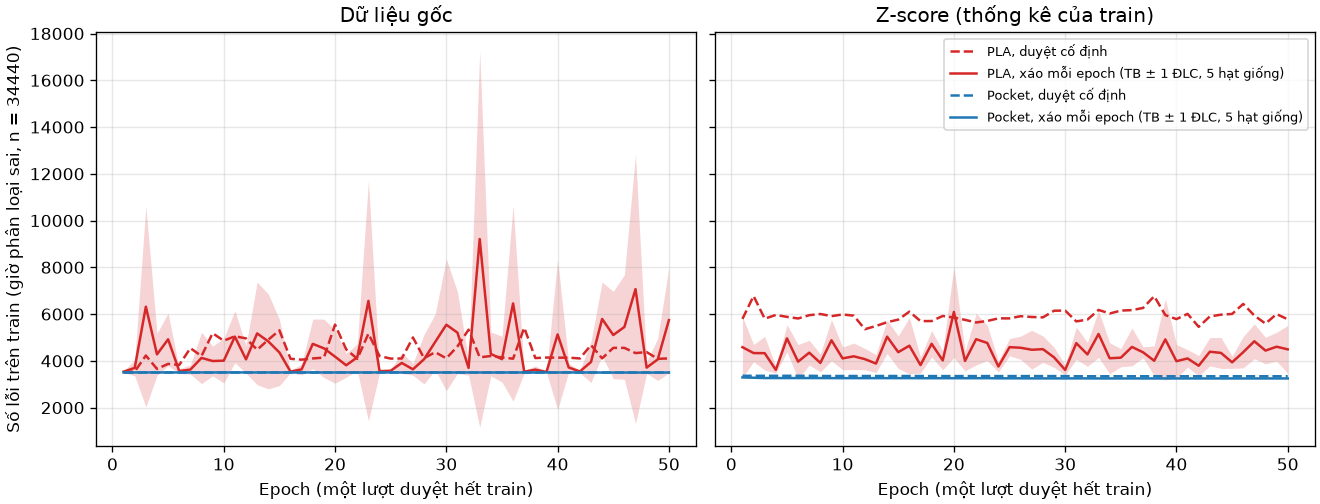
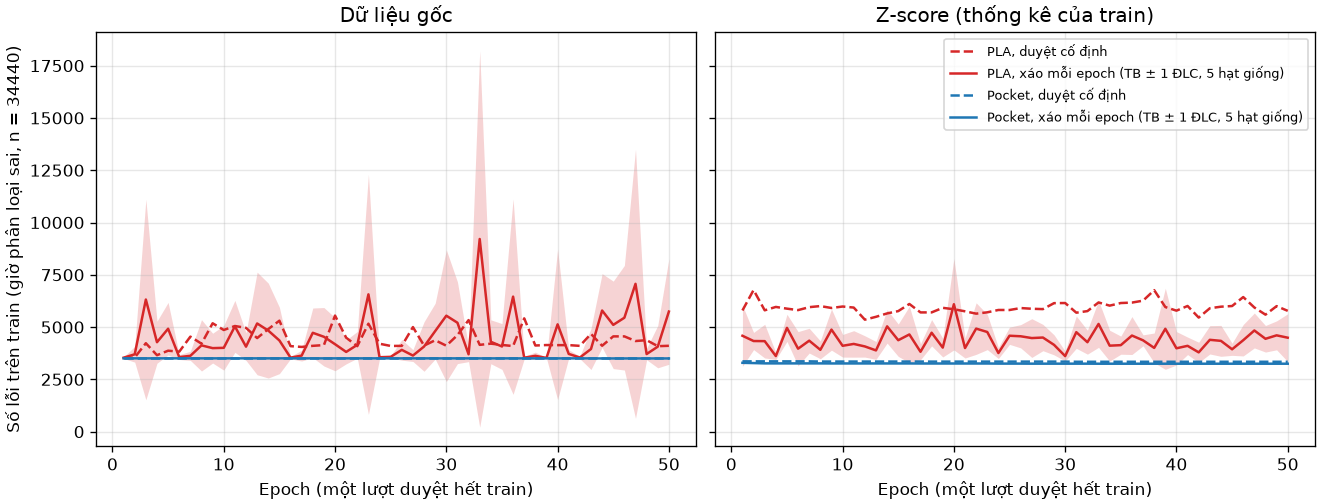
T011 fix(b4): do lech chuan qua cac lan chay chia n - 1

diff --git a/src/perceptron.py b/src/perceptron.py
@@ -148,6 +148,18 @@ def _pad_last(curve, length):
     return np.r_[curve, np.full(length - len(curve), curve[-1])]
 
 
+def _run_std(a):
+    """ĐLC qua các lần chạy (trục 0), chia n − 1 (Phi chốt 24/11/2026).
+
+    Chỉ một lần chạy (duyệt cố định) thì n − 1 = 0 nên công thức không xác định; cấu hình đó tất định
+    (hạt giống nào cũng ra cùng kết quả) nên trả 0 thay vì NaN.
+    """
+    a = np.asarray(a, dtype=np.float64)
+    if a.shape[0] < 2:
+        return np.zeros(a.shape[1:])
+    return a.std(axis=0, ddof=1)
+
+
 def epoch_error_runs(X, y, seeds, max_epochs):
     """Chạy PLA và Pocket cho 4 cấu hình: {dữ liệu gốc, z-score} x {duyệt cố định, xáo mỗi epoch}.
 
@@ -176,7 +188,7 @@ def epoch_error_runs(X, y, seeds, max_epochs):
 
 
 def epoch_error_table(runs, n):
-    """Bảng 4.1: mỗi cấu hình một dòng, số lỗi cuối (epoch cuối) của PLA và Pocket, trung bình ± độ lệch chuẩn (chia số lần chạy)."""
+    """Bảng 4.1: mỗi cấu hình một dòng, số lỗi cuối (epoch cuối) của PLA và Pocket, trung bình ± độ lệch chuẩn (chia n − 1, xem `_run_std`)."""
     import pandas as pd
 
     rows = []
@@ -188,9 +200,9 @@ def epoch_error_table(runs, n):
             "so_lan_chay": len(pla_last),
             "n_mau": n,
             "pla_loi_cuoi_tb": pla_last.mean(),
-            "pla_loi_cuoi_dlc": pla_last.std(),
+            "pla_loi_cuoi_dlc": float(_run_std(pla_last)),
             "pocket_loi_cuoi_tb": pocket_last.mean(),
-            "pocket_loi_cuoi_dlc": pocket_last.std(),
+            "pocket_loi_cuoi_dlc": float(_run_std(pocket_last)),
             "pocket_ti_le_loi_tb_pct": 100.0 * pocket_last.mean() / n,
             "pla_so_lan_ve_0_loi": int(np.sum(pla_last == 0)),
             "pla_so_epoch_da_chay_tb": r["pla_epochs"].mean(),
@@ -210,7 +222,7 @@ def plot_epoch_errors(runs, n, path):
             for order in ORDERS:
                 curves = runs[(variant, order)][algo]
                 epochs = np.arange(1, curves.shape[1] + 1)
-                mean, sd = curves.mean(axis=0), curves.std(axis=0)
+                mean, sd = curves.mean(axis=0), _run_std(curves)
                 label = f"{algo.upper() if algo == 'pla' else 'Pocket'}, {_LABELS[order]}"
                 if order == "xao":
                     label += f" (TB ± 1 ĐLC, {curves.shape[0]} hạt giống)"

diff --git a/tests/test_perceptron_viet.py b/tests/test_perceptron_viet.py
@@ -86,9 +86,15 @@ def test_epoch_error_table_matches_runs():
     row = table[(table["du_lieu"] == "zscore") & (table["thu_tu"] == "xao")].iloc[0]
     last = runs[("zscore", "xao")]["pocket"][:, -1]
     assert row["so_lan_chay"] == 3
-    assert np.isclose(row["pocket_loi_cuoi_tb"], last.mean()) and np.isclose(row["pocket_loi_cuoi_dlc"], last.std())
+    assert np.isclose(row["pocket_loi_cuoi_tb"], last.mean()) and np.isclose(row["pocket_loi_cuoi_dlc"], last.std(ddof=1))
     fixed = table[table["thu_tu"] == "co_dinh"]
     assert (fixed["so_lan_chay"] == 1).all() and (fixed["pla_loi_cuoi_dlc"] == 0).all()
+
+
+def test_run_std_divides_by_n_minus_1_and_single_run_is_zero():
+    a = np.array([[1.0, 4.0], [3.0, 8.0], [5.0, 6.0]])
+    assert np.allclose(pc._run_std(a), [2.0, 2.0])  # chia n - 1 = 2, không phải n = 3
+    assert np.all(pc._run_std(a[:1]) == 0.0)  # một lần chạy (duyệt cố định, tất định): 0, không NaN
 
 
 def test_plot_epoch_errors_writes_png(tmp_path):

diff --git a/tasks/T011-viet-hinh-loi-theo-epoch-cua-pla-va-pocket.md b/tasks/T011-viet-hinh-loi-theo-epoch-cua-pla-va-pocket.md
@@ -40,11 +40,12 @@ Chạy `pla` và `pocket` (T006, đã có) trên bài toán phụ "giờ cao đi
 - ☑ Tôi tự giải thích được từng dòng mã và từng con số trong task này (người làm tự tick).
 
 ## Kết quả (người làm điền)
-**Đã làm (24/11/2026).** Trong `src/perceptron.py`: `run` (phần lỗi theo epoch) và các hàm phụ `epoch_error_runs`, `epoch_error_table`, `plot_epoch_errors`, `_zscore_fit`, `_pad_last`. Không đổi `pla`, `pocket`, `count_errors` của T006.
+**Đã làm (24/11/2026).** Trong `src/perceptron.py`: `run` (phần lỗi theo epoch) và các hàm phụ `epoch_error_runs`, `epoch_error_table`, `plot_epoch_errors`, `_zscore_fit`, `_pad_last`, `_run_std`. Không đổi `pla`, `pocket`, `count_errors` của T006.
 - Dữ liệu: train, bỏ `WARMUP_WEEKS` tuần đầu (cùng điều kiện `week_idx >= WARMUP_WEEKS` như `drop_warmup`) → n = 34.440 giờ, 3.507 giờ nhãn +1; 12 biến `WEATHER_COLS`; x̃ = (x, 1). Không đọc val/test.
-- Nhãn: `peak_label` với ngưỡng tính trên **cả 209 tuần train** (giống ngưỡng `data_prep.run` in ra), sau đó mới bỏ tuần khởi động. UNKNOWN: hỏi Phi nên tính ngưỡng trên 209 tuần hay 205 tuần sau `drop_warmup`.
+- Nhãn: `peak_label` với ngưỡng tính trên **cả 209 tuần train** (giống ngưỡng `data_prep.run` in ra), sau đó mới bỏ tuần khởi động. Phi chốt 24/11/2026: giữ 209 tuần.
 - Z-score: trung bình và độ lệch chuẩn (chia n) tính trên chính 34.440 giờ này.
-- 4 cấu hình: {gốc, z-score} × {duyệt cố định, xáo mỗi epoch}. Khi xáo, chạy 5 hạt giống `config.get_run_seeds()` = 2044..2048. Duyệt cố định không dùng hạt giống nên chỉ chạy 1 lần (ĐLC = 0). `max_epochs = config.PERCEPTRON_MAX_EPOCHS` = 50. ĐLC qua các lần chạy chia số lần chạy (ddof = 0). UNKNOWN: hỏi Phi nếu báo cáo cần ddof = 1.
+- 4 cấu hình: {gốc, z-score} × {duyệt cố định, xáo mỗi epoch}. Khi xáo, chạy 5 hạt giống `config.get_run_seeds()` = 2044..2048. Duyệt cố định không dùng hạt giống nên chỉ chạy 1 lần. `max_epochs = config.PERCEPTRON_MAX_EPOCHS` = 50.
+- **ĐLC qua các lần chạy chia n − 1** (ddof = 1, Phi chốt 24/11/2026), áp dụng cho cả bảng và dải ±1 ĐLC trong hình (`_run_std`). Duyệt cố định chỉ có 1 lần chạy nên n − 1 = 0, công thức không xác định; cấu hình này tất định (hạt giống nào cũng ra cùng kết quả) nên ghi ĐLC = 0 thay vì NaN.
 - Lệnh: `python run_all.py --only perceptron` (≈ 480 s, chủ yếu do Pocket đếm lại lỗi trên toàn tập sau mỗi lần cập nhật).
 - Đầu ra: `results/figures/4_1_pla_pocket_epoch_error.png`, `results/tables/4_1_pla_pocket_epoch_error.csv`; truy vết ở `docs/trace_viet.md`.
 
@@ -53,14 +54,14 @@ Chạy `pla` và `pocket` (T006, đã có) trên bài toán phụ "giờ cao đi
 | Dữ liệu | Thứ tự | Số lần chạy | PLA (TB ± ĐLC) | Pocket (TB ± ĐLC) | Pocket (% lỗi) |
 |---|---|---|---|---|---|
 | gốc | cố định | 1 | 4105 ± 0 | 3506 ± 0 | 10,18 |
-| gốc | xáo | 5 | 5742,4 ± 2255,82 | 3500,2 ± 2,71 | 10,16 |
+| gốc | xáo | 5 | 5742,4 ± 2522,09 | 3500,2 ± 3,03 | 10,16 |
 | z-score | cố định | 1 | 5776 ± 0 | 3341 ± 0 | 9,70 |
-| z-score | xáo | 5 | 4492,4 ± 1022,44 | 3248,2 ± 5,98 | 9,43 |
+| z-score | xáo | 5 | 4492,4 ± 1143,12 | 3248,2 ± 6,69 | 9,43 |
 
 - PLA **hết 50 epoch** ở cả 12 lần chạy (`pla_so_lan_ve_0_loi` = 0) và số lỗi dao động mạnh giữa các epoch; Pocket không tăng và chững lại sau vài epoch.
 - Nhận xét để Phi/Huấn cân nhắc: luôn đoán −1 thì sai đúng 3.507 giờ, nên Pocket trên dữ liệu gốc (3.506; 3.500,2) gần như không hơn cách đoán đó. Z-score giúp Pocket giảm còn khoảng 3.250–3.340 lỗi.
 - Khả tách: **UNKNOWN**. PLA không về 0 lỗi sau 50 epoch, nhưng 50 epoch chưa chắc "đủ lớn" để kết luận. Kết luận cần bài toán LP (`check_separable_lp`, B4.2, chưa giao).
-- Test: thêm 5 test vào `tests/test_perceptron_viet.py` (z-score, cách nối hạt giống với pla/pocket, kéo dài khi PLA dừng sớm, bảng khớp dữ liệu chạy, ghi PNG). `python -m pytest`: 116 passed, 3 skipped (MLP, `lda_two_class`, không thuộc task này), 0 đỏ.
+- Test: thêm 6 test vào `tests/test_perceptron_viet.py` (z-score, cách nối hạt giống với pla/pocket, kéo dài khi PLA dừng sớm, bảng khớp dữ liệu chạy, ĐLC chia n − 1, ghi PNG). `python -m pytest`: 117 passed, 3 skipped (MLP, `lda_two_class`, không thuộc task này), 0 đỏ.
 
 Tự kiểm hiểu (model hỏi): epoch_error_runs | qua | 24/11/2026
 Tự kiểm hiểu (model hỏi): epoch_error_table | qua | 24/11/2026

diff --git a/docs/ai_usage_log.md b/docs/ai_usage_log.md
@@ -39,4 +39,4 @@ Cột `Người` ghi `Phi`, `Huấn` hoặc `Việt`; cột `Task` ghi mã task 
 | 22/11/2026 | Claude Code (claude-opus-5-5) | M | Thêm test đếm lỗi độc lập cho Pocket (bắt lỗi `count_errors` bỏ sót g = 0) | `tests/test_perceptron_viet.py` | Việt | T006 |
 | 23/11/2026 | Antigravity (Gemini 3.8 Flash) | M | Cài đặt các hàm tối ưu tuyến tính, L2 loss, gradient và nghiệm đóng | `src/optim_linear.py` (`mse_l2_loss`, `mse_l2_grad`, `ridge_closed_form`, `finite_diff_check`, `gd`, `sgd`, `minibatch_gd`, `momentum_gd`), `tests/test_optim_linear_huan.py` | Huấn | T003 |
 | 23/11/2026 | Antigravity (Gemini 3.8 Flash) | D | Hỏi kiểm hiểu gd, momentum, loss/grad (3 câu + sửa nhỏ), đối chiếu nghiệm giải tích | `tasks/T003-huan-tu-cai-dat-gd-sgd-mini-batch-va-nghiem-d.md` | Huấn | T003 |
-| 24/11/2026 | Claude Code (claude-opus-5-5) | M | Viết thí nghiệm lỗi theo epoch PLA/Pocket (4 cấu hình, 5 hạt giống), bảng và hình 4.1, test | `src/perceptron.py` (`run`, `epoch_error_runs`, `epoch_error_table`, `plot_epoch_errors`, `_zscore_fit`, `_pad_last`), `tests/test_perceptron_viet.py` | Việt | T011 |
+| 24/11/2026 | Claude Code (claude-opus-5-5) | M | Viết thí nghiệm lỗi theo epoch PLA/Pocket (4 cấu hình, 5 hạt giống), bảng và hình 4.1, test | `src/perceptron.py` (`run`, `epoch_error_runs`, `epoch_error_table`, `plot_epoch_errors`, `_zscore_fit`, `_pad_last`, `_run_std`), `tests/test_perceptron_viet.py` | Việt | T011 |
